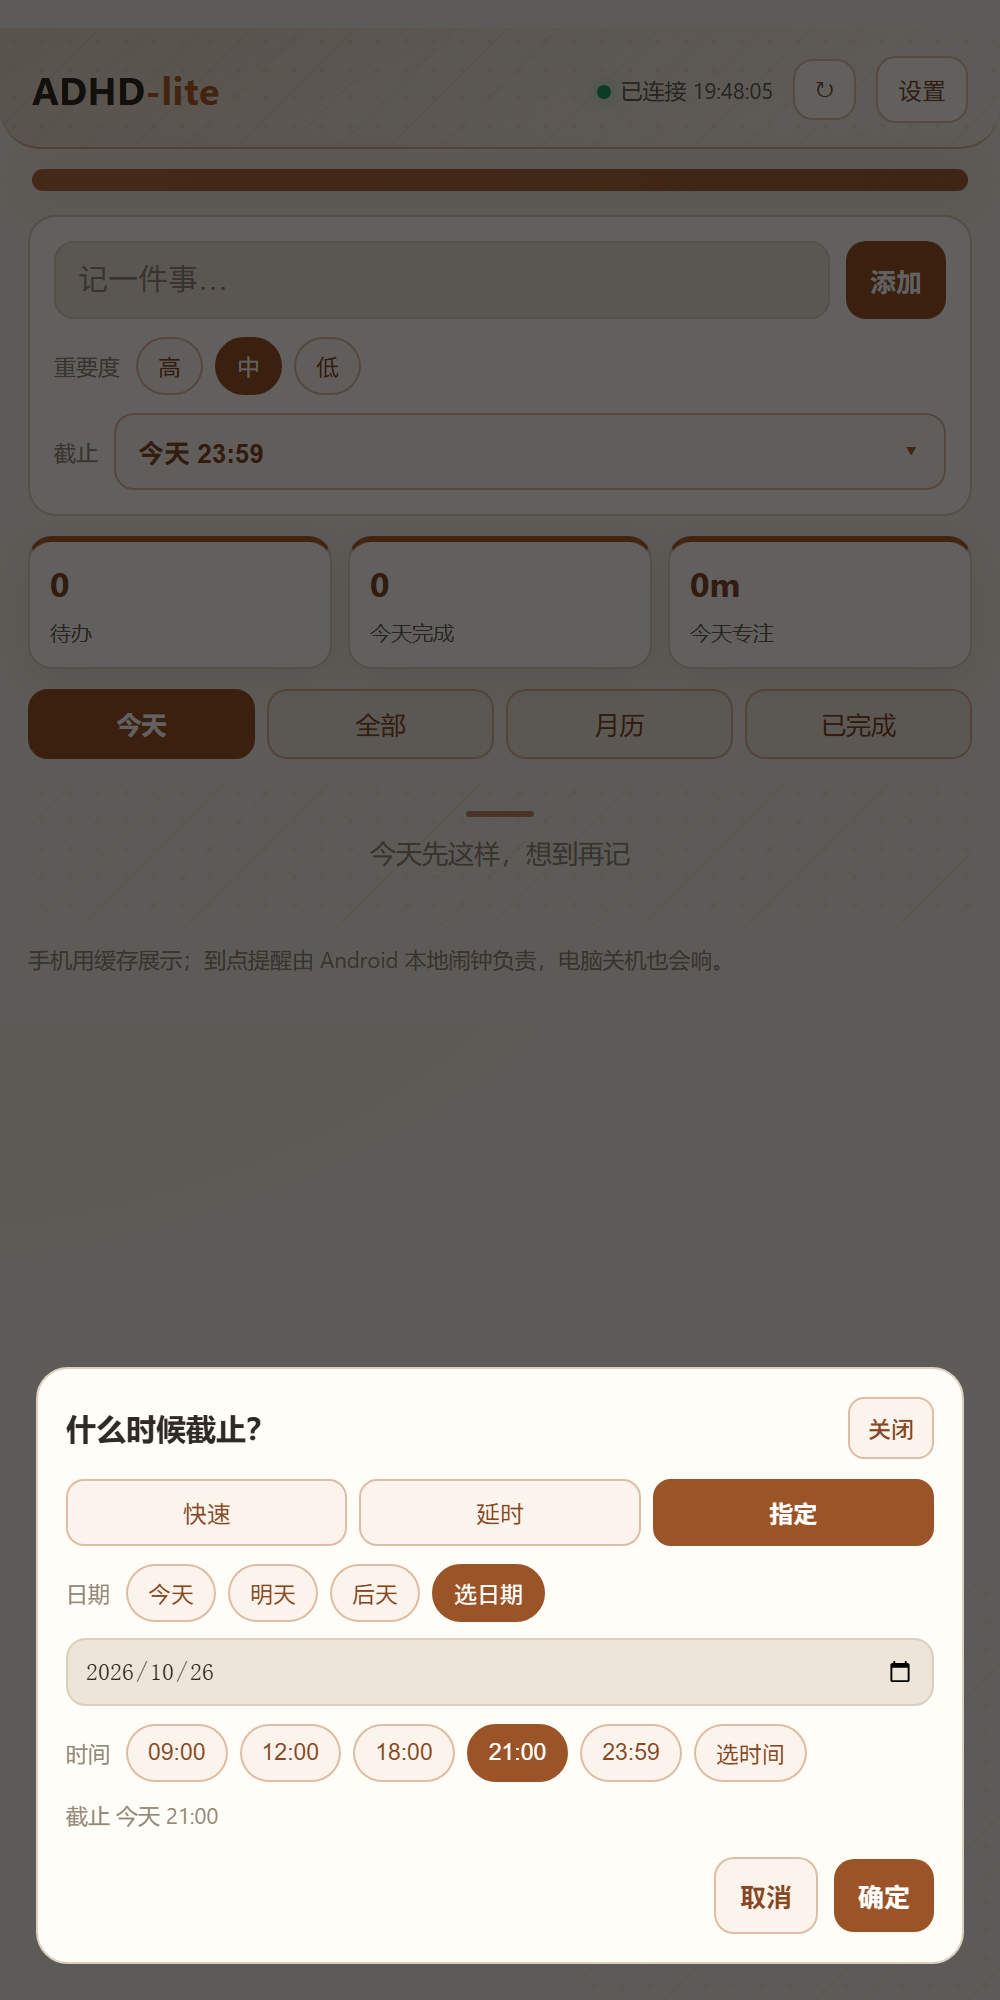
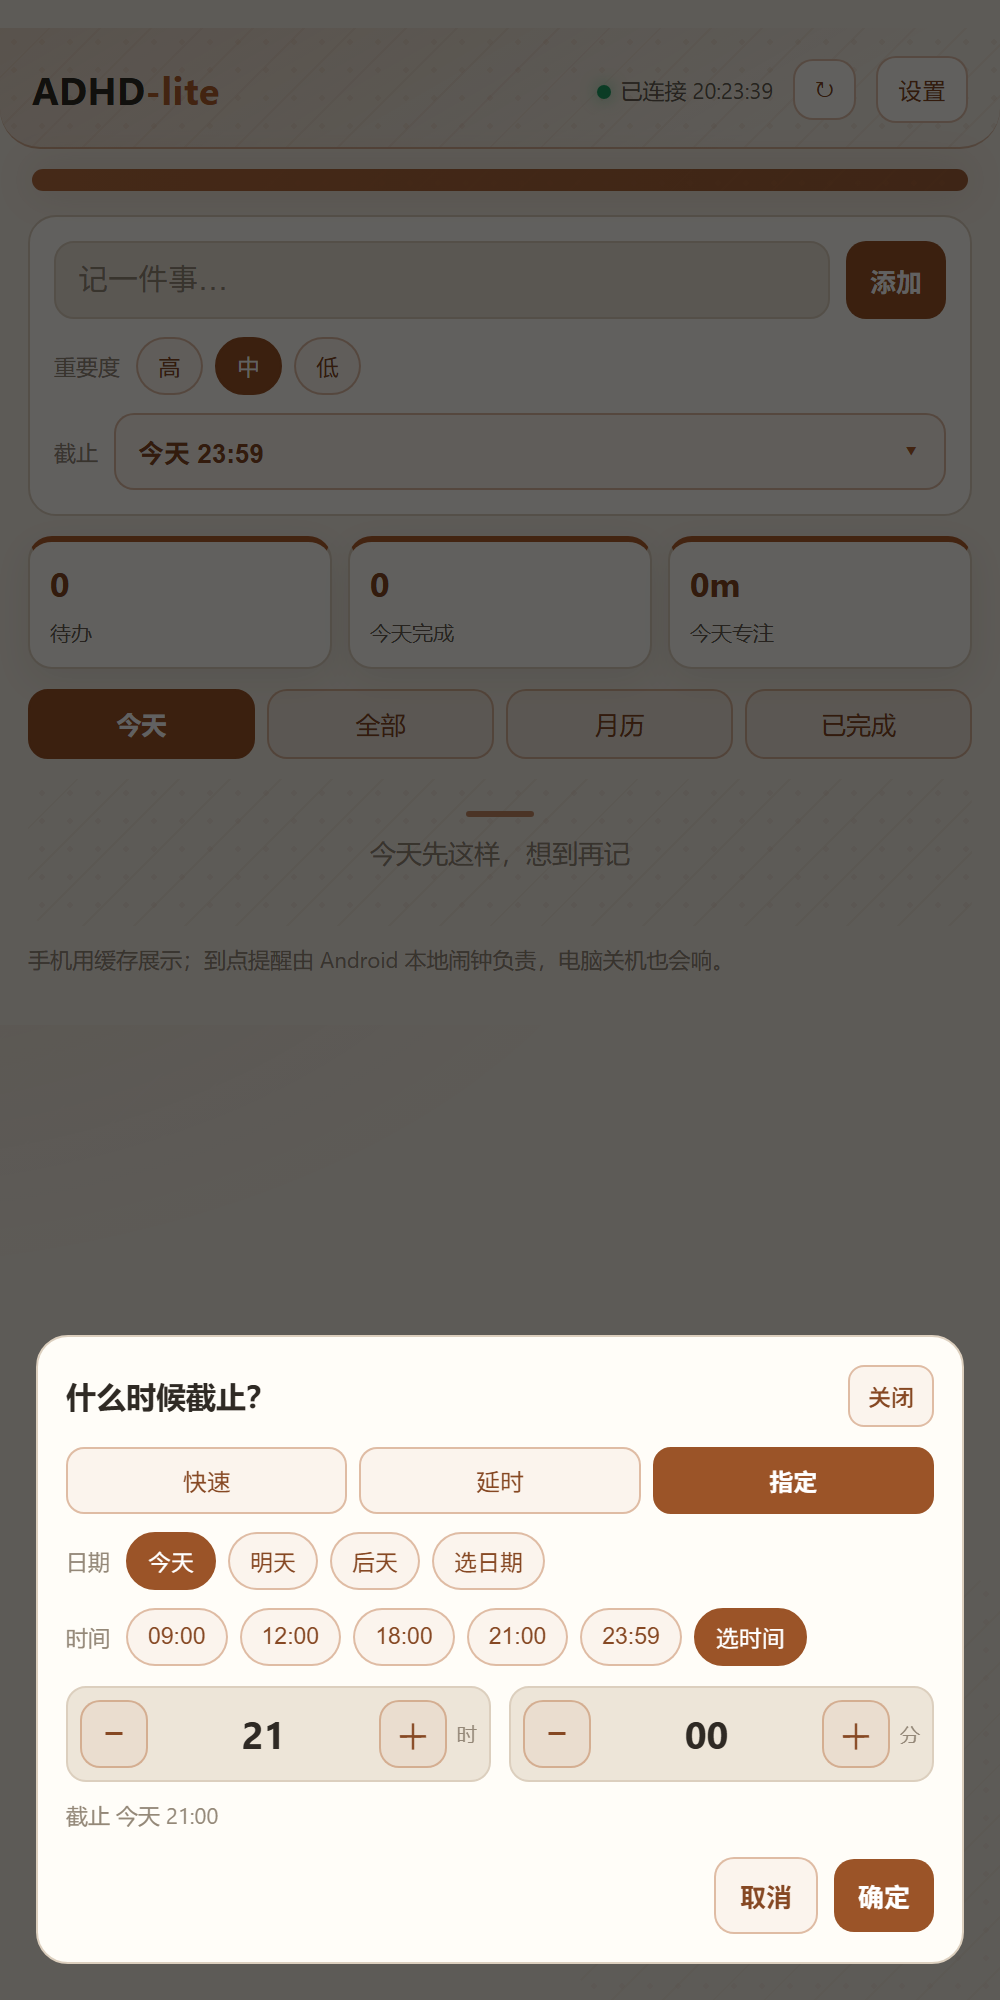
fix(v0.11.9): 选时间改成小时/分钟步进器

Changed region(s): [[0.031, 0.651, 0.961, 0.899]]

diff --git a/android/app/assets/mobile.html b/android/app/assets/mobile.html
@@ -162,6 +162,12 @@
   .customdue { display:flex; gap:6px; margin-top:8px; }
   .customdue input, .customdue select { width:50%; font-size:12px; padding:8px; }
   .customdue.single input { width:100%; }
+  .timepick { display:flex; gap:9px; margin-top:2px; width:100%; }
+  .timeunit { flex:1; display:flex; align-items:center; gap:5px; background:var(--card2);
+    border:1px solid var(--line); border-radius:10px; padding:6px; }
+  .timeunit b { flex:1; text-align:center; font-size:19px; font-variant-numeric:tabular-nums; }
+  .timeunit small { color:var(--muted); font-size:10px; }
+  .timeunit .stepbtn { width:34px; height:34px; flex:0 0 34px; font-size:18px; }
   .duerow { display:flex; align-items:center; gap:8px; margin-top:9px; }
   .duerow .label { font-size:11px; color:var(--muted); }
   .duebtn { flex:1; display:flex; justify-content:space-between; align-items:center;
@@ -392,7 +398,20 @@
         <button class="chip" data-h="pick">选时间</button>
       </div>
       <div id="timePickWrap" class="customdue single hidden">
-        <input type="time" id="dueTime" value="21:00">
+        <div class="timepick">
+          <div class="timeunit">
+            <button class="stepbtn" id="hourMinus" aria-label="小时减">−</button>
+            <b id="hourVal">21</b>
+            <button class="stepbtn" id="hourPlus" aria-label="小时加">＋</button>
+            <small>时</small>
+          </div>
+          <div class="timeunit">
+            <button class="stepbtn" id="minMinus" aria-label="分钟减">−</button>
+            <b id="minVal">00</b>
+            <button class="stepbtn" id="minPlus" aria-label="分钟加">＋</button>
+            <small>分</small>
+          </div>
+        </div>
       </div>
       <div class="hint" id="datePreview"></div>
     </div>
@@ -443,6 +462,8 @@
   var delayUnit = "min";
   var dateBase = 0;
   var dateTime = "21:00";
+  var pickHour = 21;
+  var pickMinute = 0;
   var dateSynced = false;
   var timePick = "";
   var dueInputFocused = false;
@@ -785,7 +806,8 @@
       dateTime = hm;
     } else {
       timePick = "pick";
-      $("dueTime").value = hm;
+      pickHour = d.getHours();
+      pickMinute = d.getMinutes();
     }
     dateSynced = true;
   }
@@ -886,7 +908,9 @@
   }
   function dateMs(){
     var ds = dateBase === "pick" ? ($("dueDate").value || "").trim() : dateOffsetKey(dateBase);
-    var ts = timePick === "pick" ? ($("dueTime").value || "").trim() : dateTime;
+    var ts = timePick === "pick"
+      ? (("0" + pickHour).slice(-2) + ":" + ("0" + pickMinute).slice(-2))
+      : dateTime;
     if (!ds || !ts) return 0;
     var d = new Date(ds + "T" + ts + ":00");
     return isNaN(d.getTime()) ? 0 : d.getTime();
@@ -905,7 +929,8 @@
     if ($("datePickWrap")) $("datePickWrap").classList.toggle("hidden", dateBase !== "pick");
     if ($("timePickWrap")) $("timePickWrap").classList.toggle("hidden", timePick !== "pick");
     if ($("dueDate") && !$("dueDate").value) $("dueDate").value = localDateValue(new Date());
-    if ($("dueTime") && !$("dueTime").value) $("dueTime").value = "21:00";
+    if ($("hourVal")) $("hourVal").textContent = ("0" + pickHour).slice(-2);
+    if ($("minVal")) $("minVal").textContent = ("0" + pickMinute).slice(-2);
     var ms = dateMs();
     $("datePreview").textContent = ms ? ("截止 " + fmtDue(ms)) : "还没选好日期/时间";
   }
@@ -1451,16 +1476,23 @@
     var b = e.target.closest("button[data-h]"); if (!b) return;
     var h = b.getAttribute("data-h");
     if (h === "pick") {
+      if (timePick !== "pick") {
+        var p = dateTime.split(":");
+        pickHour = parseInt(p[0], 10) || 0;
+        pickMinute = parseInt(p[1], 10) || 0;
+      }
       timePick = "pick";
-      if (!$("dueTime").value) $("dueTime").value = "21:00";
     } else {
       timePick = "";
       dateTime = h;
     }
     paintDate();
   });
+  $("hourMinus").onclick = function(){ pickHour = (pickHour + 23) % 24; timePick = "pick"; paintDate(); };
+  $("hourPlus").onclick = function(){ pickHour = (pickHour + 1) % 24; timePick = "pick"; paintDate(); };
+  $("minMinus").onclick = function(){ pickMinute = (pickMinute + 55) % 60; timePick = "pick"; paintDate(); };
+  $("minPlus").onclick = function(){ pickMinute = (pickMinute + 5) % 60; timePick = "pick"; paintDate(); };
   $("dueDate").addEventListener("change", paintDate);
-  $("dueTime").addEventListener("change", paintDate);
   $("dueOk").onclick = function(){
     if (dueTab === "delay") {
       setDuePick(Date.now() + delayMs());

diff --git a/README.md b/README.md
@@ -1,4 +1,4 @@
-# ADHD-lite（v0.11.8 · 手机端）
+# ADHD-lite（v0.11.9 · 手机端）
 
 > 接手/继续开发请先看 [docs/新会话交接摘要.md](docs/新会话交接摘要.md)；逐轮变更记录在 [docs/现状与剩余任务.md](docs/现状与剩余任务.md)。
 
@@ -16,6 +16,7 @@
 > v0.11.6 针对 iQOO / Android 16：`visualViewport` 不收缩时，改用原生 `WindowInsets.Type.ime()` + `getWindowVisibleDisplayFrame()` 算可见高度，弹层照样浮到键盘上方。
 > v0.11.7 再兜底：即使页面没收到 focusin，只要原生上报了键盘可见高度，截止弹层也会直接上浮。
 > v0.11.8 最终兜底：一碰输入框就把截止弹层移到屏幕上半部（即使 ROM 完全不上报键盘高度），输入框和预览一定可见。
+> v0.11.9 把「选时间」从原生 time 输入框换成小时/分钟步进器：不再弹系统时间选择器、不会消失、也不需要键盘。
 > 不截屏、不读别的窗口；桌面 exe 331.5 KB（v0.11.0，本轮未改）+ Android APK 48.6 KB；AI 只在你主动点按钮 / 排提醒时联网。
 
 ![清单：现在做哪件](docs/清单-现在做哪件.png)
@@ -106,9 +107,9 @@
 要重新打包：双击 `pack.cmd`（会先编译，再生成 zip），或先 `build.cmd` 后运行
 `powershell -NoProfile -ExecutionPolicy Bypass -File tools\pack.ps1`。`dist\` 不进 git。
 
-### Android 手机端（v0.11.8）
+### Android 手机端（v0.11.9）
 
-1. 手机安装 `android\dist\ADHD-lite-android-v0.11.8.apk`（允许未知来源；同 debug 签名可覆盖旧版）。
+1. 手机安装 `android\dist\ADHD-lite-android-v0.11.9.apk`（允许未知来源；同 debug 签名可覆盖旧版）。
 2. 首次打开允许通知；Android 12+ 再点「允许精确闹钟」，并把电池优化设为「不受限制」。
 3. 电脑和手机都登录 **Tailscale**（推荐），或在同一 Wi-Fi。
 4. 电脑：设置拉到最底部 →「手机 / 同步」→ 点亮开关，点「连接手机」展开地址和令牌，再填进手机 App。
@@ -118,7 +119,7 @@
    - **截止选择（v0.11.4）**：主界面只显示一个「今天 23:59 ▾」按钮，点开是底部弹层：
      - **快速**：15 分钟 / 30 分钟 / 1 小时 / 3 小时 / 明天 09:00 / 明天 21:00 / 后天 09:00，点一下直接设定；
      - **延时**：− / 数字 / ＋ 步进器（分钟步长 5，小时/天步长 1）+ 常用 5/10/15/30/60/120，实时预览绝对时间；
-     - **指定**：今天 / 明天 / 后天 / 选日期 + 09:00/12:00/18:00/21:00/23:59/选时间，原生输入框只在点「选日期/选时间」时出现。
+     - **指定**：今天 / 明天 / 后天 / 选日期 + 09:00/12:00/18:00/21:00/23:59/选时间；点「选时间」会出现小时/分钟步进器（不再弹系统时间选择器）。
      - **键盘**：输入延时数字或日期/时间时，弹层会浮到键盘上方。Android 16 / iQOO 上 `visualViewport` 可能不收缩，v0.11.6 用原生 IME inset 和可见显示区域兜底。
 6. 手机外观：**4 种底色**（柔和 / 冷白 / 素雅 / 墨夜）× **6 个更深强调色**（青瓷 / 雾蓝 / 暖砂 / 梅子 / 赤陶 / 松烟）；页头、统计数字、分页、任务优先级标签、按钮和留白纹样都会跟着变色。默认「柔和 · 暖砂 · 浅色」，只存在手机本地，不影响电脑。
 7. 设置页右上角有「← 返回主界面」，同步轮询不会再把你踢回主界面；Android 返回键也按「设置 → 主界面 → 今天 → 退出」的顺序走。
@@ -547,6 +548,7 @@ _electron_fallback\  跑不起来的 Electron 版（可删，省 369 MB）
 | **v0.11.6** | **iQOO / Android 16 键盘避让兜底：原生 IME inset + 可见显示区域** | ✅ 已完成（APK 44.6 KB / versionCode 18） |
 | **v0.11.7** | **不依赖 focusin：原生上报键盘高度就直接抬起截止弹层** | ✅ 已完成（APK 44.6 KB / versionCode 19） |
 | **v0.11.8** | **最终兜底：点输入框就把截止弹层移到屏幕上半部** | ✅ 已完成（APK 48.6 KB / versionCode 20） |
+| **v0.11.9** | **「选时间」改成小时/分钟步进器，不弹系统选择器、不需要键盘** | ✅ 已完成（APK 48.6 KB / versionCode 21） |
 | v0.12 | markdown 原生存储 / 手机离线冲突合并 / 手机通知「完成」动作 | 待做 |
 
 ### 清单页怎么打开

diff --git a/docs/新会话提示词.md b/docs/新会话提示词.md
@@ -1,6 +1,6 @@
-# 新会话开场提示词（2026-10-26 20:25 更新）
+# 新会话开场提示词（2026-10-26 20:30 更新）
 
-> 直接把下面整段复制给新会话。当前手机端 **v0.11.8**、桌面 exe **v0.11.0**，HEAD 见 `git log -1`，git 干净（本轮提交后）。
+> 直接把下面整段复制给新会话。当前手机端 **v0.11.9**、桌面 exe **v0.11.0**，HEAD 见 `git log -1`，git 干净（本轮提交后）。
 > 不要重做已经完成的主题、AI、手机端；先做「真机收尾」和清理。
 
 ---
@@ -21,9 +21,9 @@
 
 ## 当前状态（以此为准）
 
-- 版本：手机端 **v0.11.8**，桌面 exe **v0.11.0**（本轮未改桌面）；HEAD 见 `git log -1`；git 干净。
+- 版本：手机端 **v0.11.9**，桌面 exe **v0.11.0**（本轮未改桌面）；HEAD 见 `git log -1`；git 干净。
 - 桌面：`ADHD-lite.exe` **331.5 KB**；绿色包 `dist\ADHD-lite-v0.11.0-win64.zip`。
-- 手机：`android\dist\ADHD-lite-android-v0.11.8.apk`（**48.6 KB**，versionCode 20，debug 签名）。
+- 手机：`android\dist\ADHD-lite-android-v0.11.9.apk`（**48.6 KB**，versionCode 21，debug 签名）。
 - 验证：桌面 `--selftest` **46 行 / 0 FAIL**；`--ui-selftest` **16 项 / 0 FAIL**；手机页面 `node --check` 通过。
 - 手机 API 已在 Tailscale `http://100.x.x.x:17890` 跑通 `/health`、`/state`、`/add`、`/ai`、`/apk`；`/state` 已带 AI `plan` 和 `apkVersion`（v0.11.0 桌面可下发 v0.11.1 APK）。
 - 桌面「到点了」提醒修复已用临时任务实测：日志 `显示提醒: 提醒链路测试 / 到点了 / high`。
@@ -67,10 +67,10 @@
 
 ## 现在最该做的收尾（P0）
 
-1. **确认手机已升级到 v0.11.8**（Agent 这边 `adb devices` 为空，真机只能让用户操作）
-   - 设置页应显示 `App v0.11.8`；主界面默认浅色暖砂，有 4 种底色 × 6 色；截止只有一个「今天 23:59 ▾」按钮，点开是快速/延时/指定三页。
-   - 没有就装 `android\dist\ADHD-lite-android-v0.11.8.apk`；同 debug 签名可覆盖安装，失败先卸载旧版。
-   - 旧版也能从设置页看到「电脑上有新版本」→「下载并安装」，桌面 v0.11.0 的 `/apk` 会把 v0.11.8 发过去。
+1. **确认手机已升级到 v0.11.9**（Agent 这边 `adb devices` 为空，真机只能让用户操作）
+   - 设置页应显示 `App v0.11.9`；主界面默认浅色暖砂，有 4 种底色 × 6 色；截止只有一个「今天 23:59 ▾」按钮，点开是快速/延时/指定三页。
+   - 没有就装 `android\dist\ADHD-lite-android-v0.11.9.apk`；同 debug 签名可覆盖安装，失败先卸载旧版。
+   - 旧版也能从设置页看到「电脑上有新版本」→「下载并安装」，桌面 v0.11.0 的 `/apk` 会把 v0.11.9 发过去。
 2. **真机后台提醒（这轮重点）**
    - 点「后台自检（30 秒）」，30 秒内把 App 划掉或锁屏；应响铃 + 横幅 + 弹「到点了」。
    - 不响就依次看：精确闹钟（必须已允许）、电池不受限、全屏提醒（Android 14+）、系统自启动/后台弹出界面。
@@ -143,7 +143,7 @@
 
 ## 第一轮建议
 
-1. 先看手机是否 v0.11.8（设置页版本 + 4 底色 + 截止三页/键盘避让 + 后台自检）；没有就装。
+1. 先看手机是否 v0.11.9（设置页版本 + 4 底色 + 截止三页/时间步进器 + 后台自检）；没有就装。
 2. 在手机设置点「测试通知（5 秒）」，确认通知权限/精确闹钟/后台/已排数。
 3. 做一次双向同步 + 一条 2 分钟后截止的锁屏提醒。
 4. 把结果（尤其通知状态和是否弹）记下来，再决定是调 Android 通知还是收尾清理。

diff --git a/docs/新会话交接摘要.md b/docs/新会话交接摘要.md
@@ -1,6 +1,6 @@
 # ADHD-lite 交接摘要（给下一个会话）
 
-> 生成时间：2026-10-26 20:25（v0.11.8 后更新）　·　生成者：v0.11.8 开发会话
+> 生成时间：2026-10-26 20:30（v0.11.9 后更新）　·　生成者：v0.11.9 开发会话
 > 配套文档：`README.md`（用户手册）、`docs/现状与剩余任务.md`（逐轮变更记录）、`docs/题目对照与剩余任务.md`（对题差距）
 > 本文件是"接手前必读"：东西在哪、怎么改、怎么验、还剩什么。
 
@@ -8,7 +8,7 @@
 
 ## 0. 一句话现状
 
-**331.5 KB 原生 WPF exe（C# 5 / .NET Framework 4.8）+ 48.6 KB Android APK（versionCode 20）。v0.11.8 给 iQOO/Android 16 加最终兜底：点输入框就把截止弹层移到屏幕上半部（`#dueModal.kbd`），即使 ROM 完全不上报键盘高度也不会被盖住；桌面 exe 仍是 v0.11.0。**
+**331.5 KB 原生 WPF exe（C# 5 / .NET Framework 4.8）+ 48.6 KB Android APK（versionCode 21）。v0.11.9 把「选时间」从原生 time 输入改成小时/分钟步进器，不再弹系统时间选择器、不会消失、不需要键盘；桌面 exe 仍是 v0.11.0。**
 桌面仍是单进程、无后台服务：电脑上的提醒要程序开着；手机提醒是本地闹钟，电脑关机也能响。没有屏幕上下文，也不做自动排一天。
 
 ---
@@ -25,7 +25,7 @@ D:\ADHD清单\                     ← 工程根（也就是工作目录）
 │   ├─ app\                      Android 源码（WebView + AlarmManager + 本地通知）
 │   ├─ build-apk.ps1             不动 Gradle：aapt2 + javac + d8 + zipalign + apksigner
 │   ├─ debug.keystore            调试签名（升级 APK 必须同一个）
-│   ├─ dist\ADHD-lite-android-v0.11.8.apk
+│   ├─ dist\ADHD-lite-android-v0.11.9.apk
 │   └─ README.md                 安装 / Tailscale / 构建 / 更新说明
 ├─ src\
 │   ├─ Program.cs   4840 行      全部逻辑：热键/调度/存储/托盘/悬浮球/录入窗/提醒窗/诊断/自检/自检隔离
@@ -86,6 +86,7 @@ D:\ADHD清单\                     ← 工程根（也就是工作目录）
 | **v0.11.6** | **iQOO/Android 16 键盘兜底：原生 IME inset + 可见显示区域** | ✅（APK 44.6 KB / versionCode 18；真机待确认） |
 | **v0.11.7** | **不依赖 focusin：原生键盘高度上报就直接抬起截止弹层** | ✅（APK 44.6 KB / versionCode 19；真机待确认） |
 | **v0.11.8** | **最终兜底：点输入框就把截止弹层移到屏幕上半部** | ✅（APK 48.6 KB / versionCode 20；真机待确认） |
+| **v0.11.9** | **「选时间」改成小时/分钟步进器，不弹系统选择器/不需要键盘** | ✅（APK 48.6 KB / versionCode 21；真机待确认） |
 
 ### 关键交互（改代码前必须知道）
 
@@ -164,7 +165,7 @@ cmd /c "build.cmd < nul"
 .\ADHD-lite.exe --ai-smoke      # 真实 Key 六项各调一次（约 0.006 元）；用临时目录，不碰真实清单
                                 # Agent 沙箱里 TLS 拿不到凭证会 6 项全失败，正常双击不受影响
 powershell -NoProfile -ExecutionPolicy Bypass -File android\build-apk.ps1
-                                # 生成 android\dist\ADHD-lite-android-v0.11.8.apk（需 SDK 35）
+                                # 生成 android\dist\ADHD-lite-android-v0.11.9.apk（需 SDK 35）
 
 # 渲染截图（只渲染自己，不碰桌面）
 .\ADHD-lite.exe --snapshot  a.png            # 录入窗

diff --git a/android/README.md b/android/README.md
@@ -4,7 +4,7 @@
 
 ## 安装
 
-1. 把 `dist\ADHD-lite-android-v0.11.8.apk` 发到手机（微信/QQ/数据线都可）。
+1. 把 `dist\ADHD-lite-android-v0.11.9.apk` 发到手机（微信/QQ/数据线都可）。
 2. 在手机上允许「安装未知来源应用」，安装 APK。
 3. 首次打开会请求通知权限；Android 12+ 再点一次「允许精确闹钟」，并在设置里把电池优化设为「不受限制」，否则提醒可能不准点。
 4. 在电脑端：`ADHD-lite.exe` → 设置 → 手机 / 同步 → 点亮「手机同步」。
@@ -12,6 +12,11 @@
    - 都登录 Tailscale 时用 `http://100.x.x.x:17890`（推荐）；
    - 同一 Wi-Fi 用 `http://192.168.x.x:17890`。
 6. 点「保存并连接」。电脑开着时手机即可增删改、开始/暂停、计时、AI 拆解/取舍。
+
+## v0.11.9 新增
+
+- **「选时间」不再用原生 `input type=time`**：点「选时间」后直接出现小时/分钟步进器（时 ±1、分 ±5），不会弹系统时间选择器、不会消失、不需要键盘。
+- 选完按「确定」即可；`dateMs()` 用 `pickHour/pickMinute` 拼时间。
 
 ## v0.11.8 新增
 
@@ -103,7 +108,7 @@ cd D:\ADHD清单
 powershell -NoProfile -ExecutionPolicy Bypass -File android\build-apk.ps1
 ```
 
-产物：`android\dist\ADHD-lite-android-v0.11.8.apk`（versionCode 20，debug 签名）。
+产物：`android\dist\ADHD-lite-android-v0.11.9.apk`（versionCode 21，debug 签名）。
 
 说明：`aapt2` 在中文路径下会报 `failed to open directory`，脚本会先把 `app/` 复制到 ASCII 临时目录编译。脚本必须保存为 **UTF-8 with BOM**（Windows PowerShell 5.1 否则会把中文注释按 ANSI 解析，变量会变空）。
 
@@ -121,5 +126,5 @@ app/java/com/adhd/lite/
   ApkProvider.java              v0.11 给系统安装器读 update.apk 的最小 ContentProvider
 build-apk.ps1                   aapt2 + javac + d8 + zipalign + apksigner
 debug.keystore                  调试签名（升级 APK 必须用同一个）
-dist/                           生成的 APK（v0.11.8 已提交，便于直接安装）
+dist/                           生成的 APK（v0.11.9 已提交，便于直接安装）
 ```

diff --git a/docs/现状与剩余任务.md b/docs/现状与剩余任务.md
@@ -1,4 +1,4 @@
-# ADHD-lite 现状与剩余任务（2026-10-26 v0.11.8 更新）
+# ADHD-lite 现状与剩余任务（2026-10-26 v0.11.9 更新）
 
 > 这份文档是给"下一个会话/下一次自己"看的：现在做到哪、哪些是真 bug、哪些是你提过但我没做的。
 > 证据来自上一个会话的完整记录（26 轮、436 次工具调用）＋当前源码＋`data/startup.log`（你 10-24 15:42 那次真实运行）。
@@ -501,10 +501,23 @@
 | 3 | 原生 inset / visualViewport / 上半屏三层兜底 | 代码路径 |
 
 ---
+
+## 1.20 2026-10-26 20:30 第二十六轮（v0.11.9：选时间用步进器）
+
+> 目标：iQOO 上点「选时间」后原生 time 输入导致界面消失/键盘不出。
+> 产物：**只重打 Android APK 48.6 KB（versionCode 21）**。
+
+| # | 改了什么 | 验证 |
+|---|---|---|
+| 1 | 删除 `<input type="time">`；点「选时间」直接显示小时/分钟步进器（时 ±1、分 ±5） | 浏览器渲染：弹层不消失，步进器可见 |
+| 2 | `pickHour/pickMinute` 替代 `dueTime`，`dateMs()` 拼时间；不再依赖系统时间选择器/键盘 | `node --check` |
+| 3 | 选日期仍用原生 date 输入（点「选日期」才出现），时间不再走原生 | 截图 |
+
+---
 ## 1. 工程现状
 
-> 注：本节是 v0.4 时的快照（下面的 P0 已全部修复）；当前版本、体积和源码行数见 1.19。
-> 当前为 v0.11.8 手机端 / 桌面 exe 331.5 KB（v0.11.0）+ Android APK 48.6 KB / 4 底色 × 6 强调色 / 截止三页选择 / 键盘避让（原生 + 上半屏兜底） / 后台闹钟 + 全屏提醒 / AI 助理六项 + 开机自启 + 绿色包 + 手机同步 + 手机主题/月历。
+> 注：本节是 v0.4 时的快照（下面的 P0 已全部修复）；当前版本、体积和源码行数见 1.20。
+> 当前为 v0.11.9 手机端 / 桌面 exe 331.5 KB（v0.11.0）+ Android APK 48.6 KB / 4 底色 × 6 强调色 / 截止三页选择 / 时间步进器 / 后台闹钟 + 全屏提醒 / AI 助理六项 + 开机自启 + 绿色包 + 手机同步 + 手机主题/月历。
 
 | 项 | 现状 |
 |---|---|
